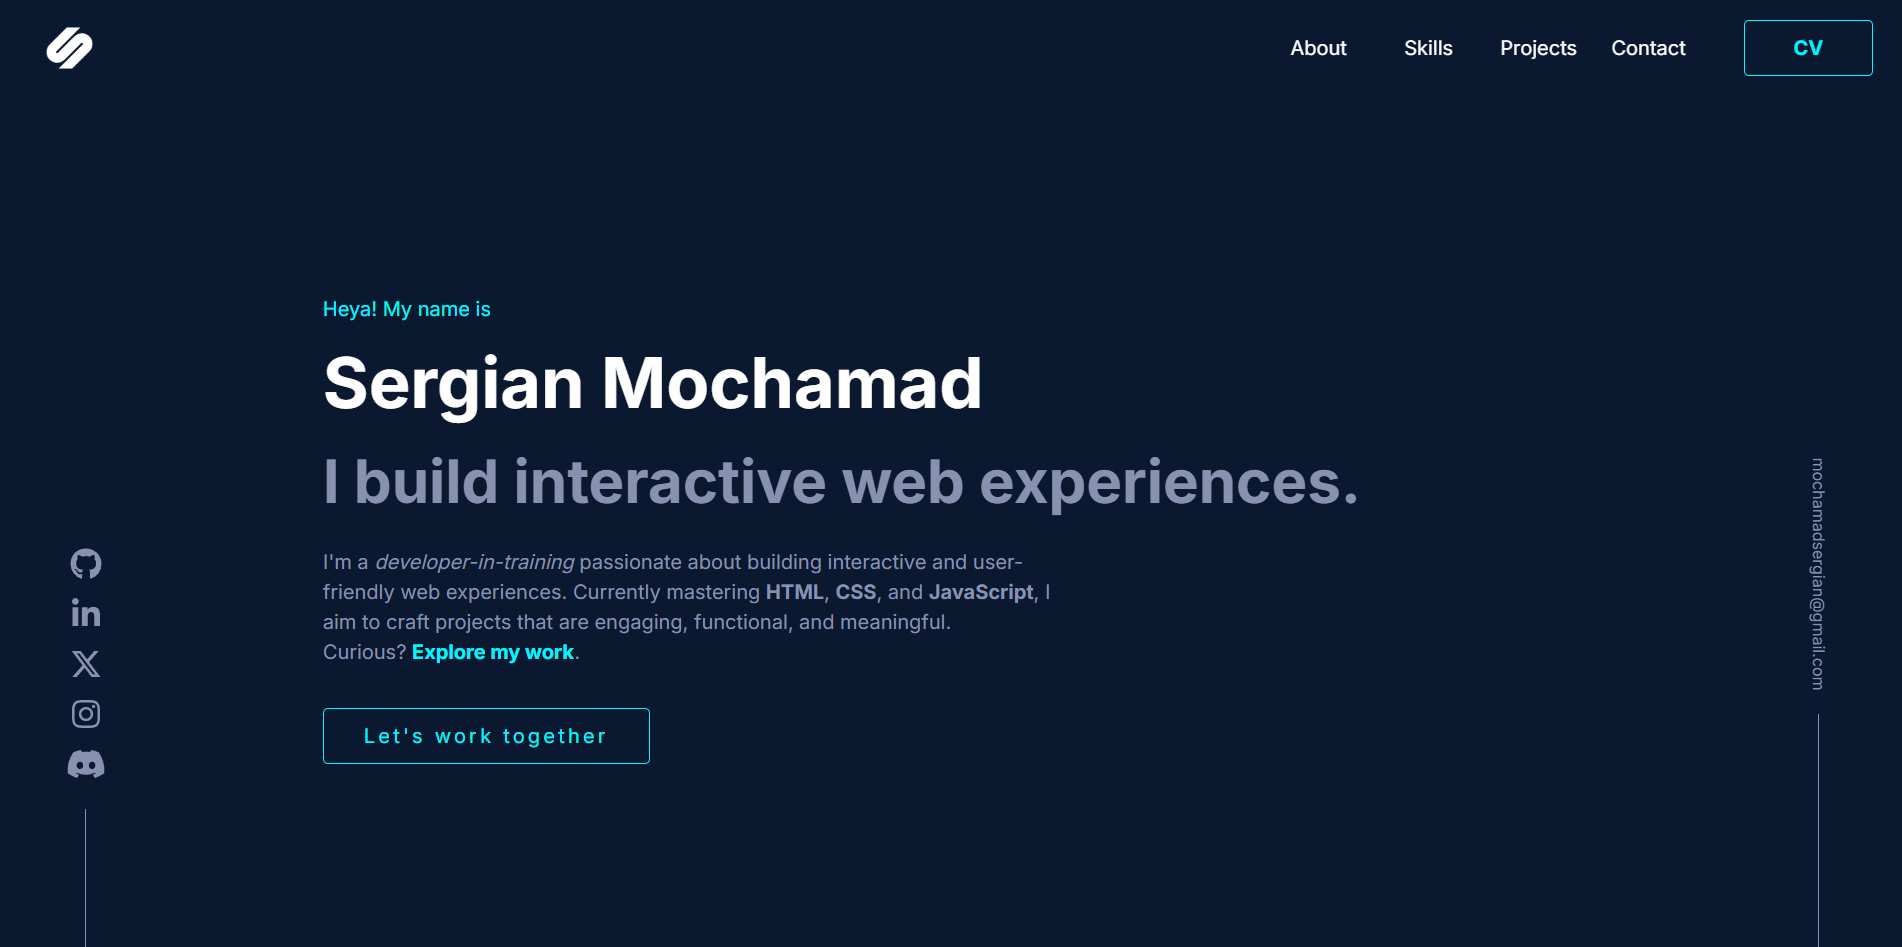
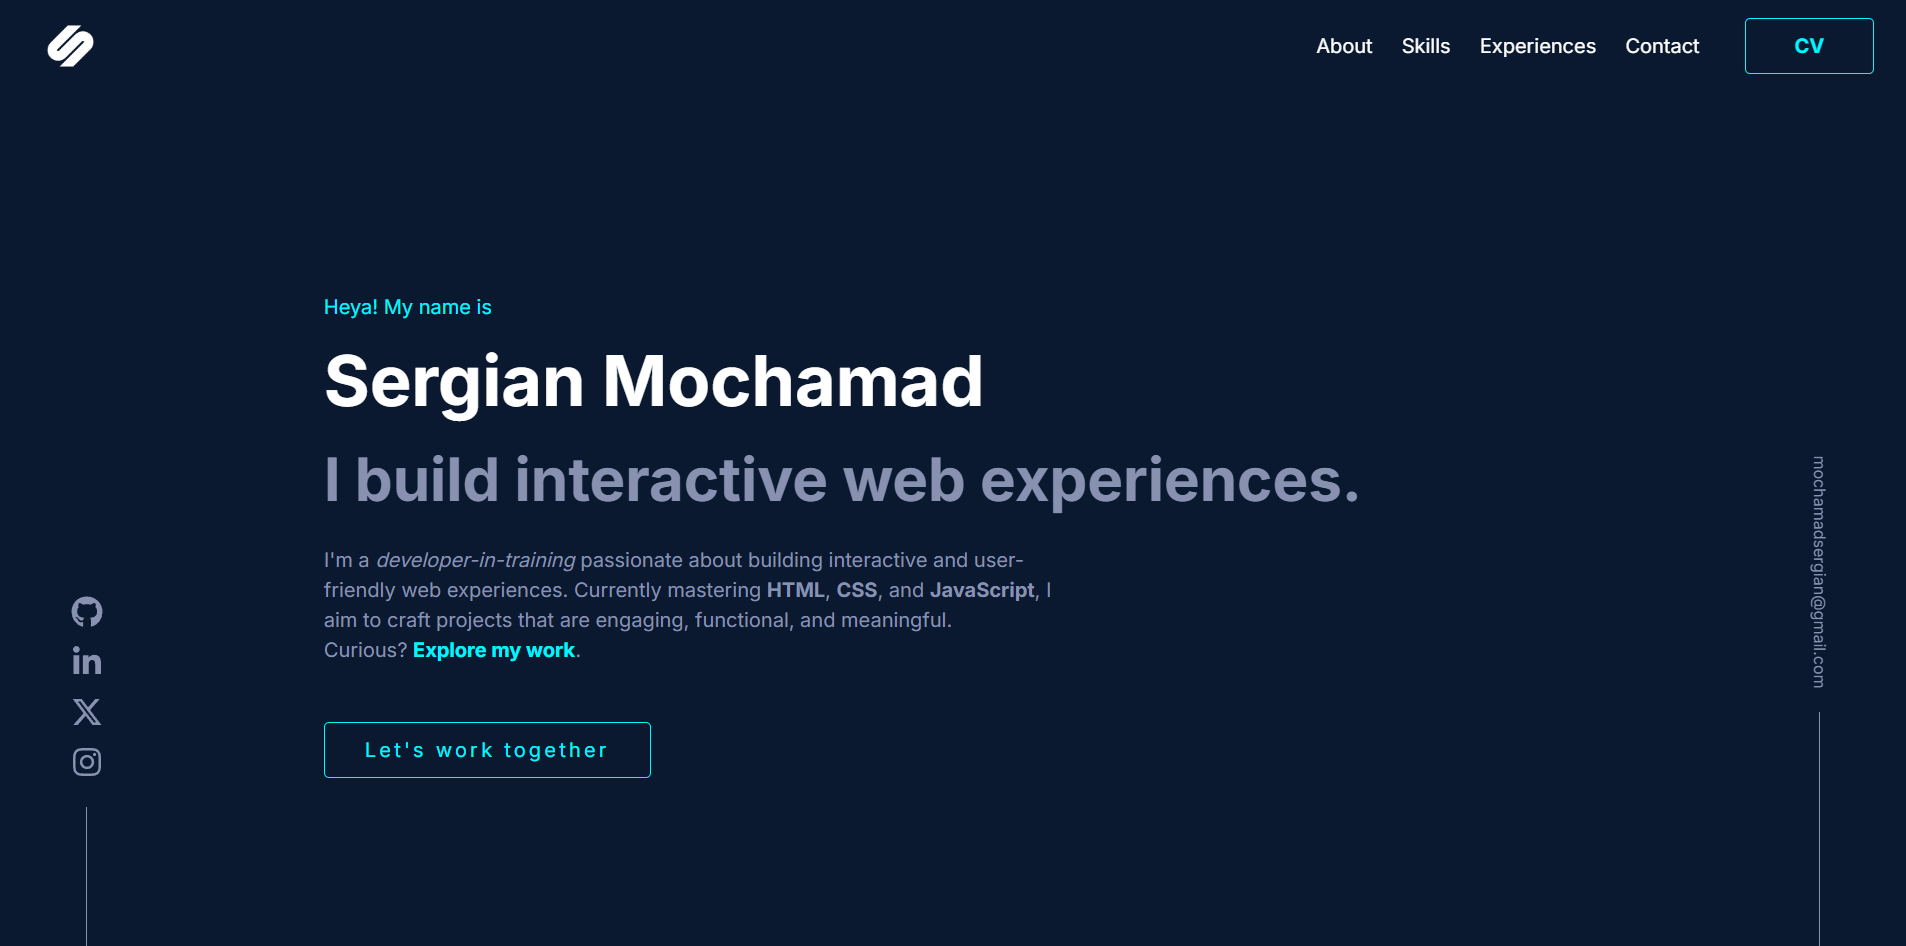
Footer & Contact

diff --git a/index.html b/index.html
@@ -129,7 +129,7 @@
                         <svg class="img-2" xmlns="http://www.w3.org/2000/svg" viewBox="0 0 640 640"><!--!Font Awesome Free v7.0.1 by @fontawesome - https://fontawesome.com License - https://fontawesome.com/license/free Copyright 2025 Fonticons, Inc.--><path d="M341.5 45.1C337.4 37.1 329.1 32 320.1 32C311.1 32 302.8 37.1 298.7 45.1L225.1 189.3L65.2 214.7C56.3 216.1 48.9 222.4 46.1 231C43.3 239.6 45.6 249 51.9 255.4L166.3 369.9L141.1 529.8C139.7 538.7 143.4 547.7 150.7 553C158 558.3 167.6 559.1 175.7 555L320.1 481.6L464.4 555C472.4 559.1 482.1 558.3 489.4 553C496.7 547.7 500.4 538.8 499 529.8L473.7 369.9L588.1 255.4C594.5 249 596.7 239.6 593.9 231C591.1 222.4 583.8 216.1 574.8 214.7L415 189.3L341.5 45.1z"/></svg>
                     </label>
                   </div>
-                <p class="captions">Lorem ipsum dolor sit amet, consectetur adipisicing elit. Fugiat suscipit maxime repellendus, adipisci doloremque accusamus dolorum animi? Voluptate voluptatibus voluptatum maiores repellendus nisi inventore eaque eius iure corporis quasi. In!</p>
+                <p class="captions">My first complete website project! I created it to expand my skills in HTML, CSS, and JavaScript while connecting with others for potential collaborations.</p>
                 <a href="#" class="project-link">View Project</a>
               </div>
             </div>
@@ -155,24 +155,52 @@
 
         <!-- Contacts Section -->
         <section class="sect" id="contact">
-            <h2 class="title">About Me</h2>
-            <p class="hero-intro">Contact</p>
-            <h1 class="hero-name">Sergian Mochamad</h1>
-            <h2 class="hero-subtitle">I bring life into technology</h2>
-            <p class="hero-description">
-                I'm a <i>developer-in-training</i> passionate about building interactive and user-friendly web
-                experiences.
-                Currently mastering <b>HTML</b>, <b>CSS</b>, and <b>JavaScript</b>, I aim to craft projects that are
-                engaging, functional, and meaningful.
-                <br>
-                Curious? <a href="#"><b>Explore my work</b></a>.
-            </p>
-            <a href="#" id="CTA-Btn">View my works</a>
+            <h2 class="title">Get in Touch</h2>
+
+           <div class="about">
+                <div class="about-left">
+                    <p class="about-intro">
+                        I'm currently looking for opportunities to collaborate on exciting projects and contribute to innovative teams. Whether you have a question, a project idea, or just want to say hello, feel free to reach out. I'm always open to connecting with like-minded individuals and exploring new possibilities.
+                    </p>
+
+                    <h3>Let's connect!</h3>
+
+                    <div class="content-socials">
+                        <a href="https://github.com/smymrr" target="_blank" rel="noopener noreferrer" class="socials">
+                            <svg xmlns="http://www.w3.org/2000/svg" viewBox="0 0 640 640"><path d="M237.9 461.4C237.9 463.4 235.6 465 232.7 465C229.4 465.3 227.1 463.7 227.1 461.4C227.1 459.4 229.4 457.8 232.3 457.8C235.3 457.5 237.9 459.1 237.9 461.4zM206.8 456.9C206.1 458.9 208.1 461.2 211.1 461.8C213.7 462.8 216.7 461.8 217.3 459.8C217.9 457.8 216 455.5 213 454.6C210.4 453.9 207.5 454.9 206.8 456.9zM251 455.2C248.1 455.9 246.1 457.8 246.4 460.1C246.7 462.1 249.3 463.4 252.3 462.7C255.2 462 257.2 460.1 256.9 458.1C256.6 456.2 253.9 454.9 251 455.2zM316.8 72C178.1 72 72 177.3 72 316C72 426.9 141.8 521.8 241.5 555.2C254.3 557.5 258.8 549.6 258.8 543.1C258.8 536.9 258.5 502.7 258.5 481.7C258.5 481.7 188.5 496.7 173.8 451.9C173.8 451.9 162.4 422.8 146 415.3C146 415.3 123.1 399.6 147.6 399.9C147.6 399.9 172.5 401.9 186.2 425.7C208.1 464.3 244.8 453.2 259.1 446.6C261.4 430.6 267.9 419.5 275.1 412.9C219.2 406.7 162.8 398.6 162.8 302.4C162.8 274.9 170.4 261.1 186.4 243.5C183.8 237 175.3 210.2 189 175.6C209.9 169.1 258 202.6 258 202.6C278 197 299.5 194.1 320.8 194.1C342.1 194.1 363.6 197 383.6 202.6C383.6 202.6 431.7 169 452.6 175.6C466.3 210.3 457.8 237 455.2 243.5C471.2 261.2 481 275 481 302.4C481 398.9 422.1 406.6 366.2 412.9C375.4 420.8 383.2 435.8 383.2 459.3C383.2 493 382.9 534.7 382.9 542.9C382.9 549.4 387.5 557.3 400.2 555C500.2 521.8 568 426.9 568 316C568 177.3 455.5 72 316.8 72zM169.2 416.9C167.9 417.9 168.2 420.2 169.9 422.1C171.5 423.7 173.8 424.4 175.1 423.1C176.4 422.1 176.1 419.8 174.4 417.9C172.8 416.3 170.5 415.6 169.2 416.9zM158.4 408.8C157.7 410.1 158.7 411.7 160.7 412.7C162.3 413.7 164.3 413.4 165 412C165.7 410.7 164.7 409.1 162.7 408.1C160.7 407.5 159.1 407.8 158.4 408.8zM190.8 444.4C189.2 445.7 189.8 448.7 192.1 450.6C194.4 452.9 197.3 453.2 198.6 451.6C199.9 450.3 199.3 447.3 197.3 445.4C195.1 443.1 192.1 442.8 190.8 444.4zM179.4 429.7C177.8 430.7 177.8 433.3 179.4 435.6C181 437.9 183.7 438.9 185 437.9C186.6 436.6 186.6 434 185 431.7C183.6 429.4 181 428.4 179.4 429.7z"/></svg>
+                        </a>
+
+                        <a href="https://www.linkedin.com/in/sergian-mochamad-17587a37a/" target="_blank" rel="noopener noreferrer" class="socials">
+                            <svg xmlns="http://www.w3.org/2000/svg" viewBox="0 0 640 640"><path d="M196.3 512L103.4 512L103.4 212.9L196.3 212.9L196.3 512zM149.8 172.1C120.1 172.1 96 147.5 96 117.8C96 103.5 101.7 89.9 111.8 79.8C121.9 69.7 135.6 64 149.8 64C164 64 177.7 69.7 187.8 79.8C197.9 89.9 203.6 103.6 203.6 117.8C203.6 147.5 179.5 172.1 149.8 172.1zM543.9 512L451.2 512L451.2 366.4C451.2 331.7 450.5 287.2 402.9 287.2C354.6 287.2 347.2 324.9 347.2 363.9L347.2 512L254.4 512L254.4 212.9L343.5 212.9L343.5 253.7L344.8 253.7C357.2 230.2 387.5 205.4 432.7 205.4C526.7 205.4 544 267.3 544 347.7L544 512L543.9 512z"/></svg>
+                        </a>
+
+                        <a href="https://x.com/Yurashmits" target="_blank" rel="noopener noreferrer" class="socials">
+                            <svg xmlns="http://www.w3.org/2000/svg" viewBox="0 0 640 640"><path d="M453.2 112L523.8 112L369.6 288.2L551 528L409 528L297.7 382.6L170.5 528L99.8 528L264.7 339.5L90.8 112L236.4 112L336.9 244.9L453.2 112zM428.4 485.8L467.5 485.8L215.1 152L173.1 152L428.4 485.8z"/></svg>
+                        </a>
+      
+                        <a href="https://www.instagram.com/smymr_/" target="_blank" rel="noopener noreferrer" class="socials">
+                            <svg xmlns="http://www.w3.org/2000/svg" viewBox="0 0 640 640"><path d="M320.3 205C256.8 204.8 205.2 256.2 205 319.7C204.8 383.2 256.2 434.8 319.7 435C383.2 435.2 434.8 383.8 435 320.3C435.2 256.8 383.8 205.2 320.3 205zM319.7 245.4C360.9 245.2 394.4 278.5 394.6 319.7C394.8 360.9 361.5 394.4 320.3 394.6C279.1 394.8 245.6 361.5 245.4 320.3C245.2 279.1 278.5 245.6 319.7 245.4zM413.1 200.3C413.1 185.5 425.1 173.5 439.9 173.5C454.7 173.5 466.7 185.5 466.7 200.3C466.7 215.1 454.7 227.1 439.9 227.1C425.1 227.1 413.1 215.1 413.1 200.3zM542.8 227.5C541.1 191.6 532.9 159.8 506.6 133.6C480.4 107.4 448.6 99.2 412.7 97.4C375.7 95.3 264.8 95.3 227.8 97.4C192 99.1 160.2 107.3 133.9 133.5C107.6 159.7 99.5 191.5 97.7 227.4C95.6 264.4 95.6 375.3 97.7 412.3C99.4 448.2 107.6 480 133.9 506.2C160.2 532.4 191.9 540.6 227.8 542.4C264.8 544.5 375.7 544.5 412.7 542.4C448.6 540.7 480.4 532.5 506.6 506.2C532.8 480 541 448.2 542.8 412.3C544.9 375.3 544.9 264.5 542.8 227.5zM495 452C487.2 471.6 472.1 486.7 452.4 494.6C422.9 506.3 352.9 503.6 320.3 503.6C287.7 503.6 217.6 506.2 188.2 494.6C168.6 486.8 153.5 471.7 145.6 452C133.9 422.5 136.6 352.5 136.6 319.9C136.6 287.3 134 217.2 145.6 187.8C153.4 168.2 168.5 153.1 188.2 145.2C217.7 133.5 287.7 136.2 320.3 136.2C352.9 136.2 423 133.6 452.4 145.2C472 153 487.1 168.1 495 187.8C506.7 217.3 504 287.3 504 319.9C504 352.5 506.7 422.6 495 452z"/></svg>
+                        </a>
+
+                        <a href="https://discord.gg/YG42792z" target="_blank" rel="noopener noreferrer" class="socials">
+                            <svg xmlns="http://www.w3.org/2000/svg" viewBox="0 0 640 640"><!--!Font Awesome Free v7.0.1 by @fontawesome - https://fontawesome.com License - https://fontawesome.com/license/free Copyright 2025 Fonticons, Inc.--><path d="M524.5 133.8C524.3 133.5 524.1 133.2 523.7 133.1C485.6 115.6 445.3 103.1 404 96C403.6 95.9 403.2 96 402.9 96.1C402.6 96.2 402.3 96.5 402.1 96.9C396.6 106.8 391.6 117.1 387.2 127.5C342.6 120.7 297.3 120.7 252.8 127.5C248.3 117 243.3 106.8 237.7 96.9C237.5 96.6 237.2 96.3 236.9 96.1C236.6 95.9 236.2 95.9 235.8 95.9C194.5 103 154.2 115.5 116.1 133C115.8 133.1 115.5 133.4 115.3 133.7C39.1 247.5 18.2 358.6 28.4 468.2C28.4 468.5 28.5 468.7 28.6 469C28.7 469.3 28.9 469.4 29.1 469.6C73.5 502.5 123.1 527.6 175.9 543.8C176.3 543.9 176.7 543.9 177 543.8C177.3 543.7 177.7 543.4 177.9 543.1C189.2 527.7 199.3 511.3 207.9 494.3C208 494.1 208.1 493.8 208.1 493.5C208.1 493.2 208.1 493 208 492.7C207.9 492.4 207.8 492.2 207.6 492.1C207.4 492 207.2 491.8 206.9 491.7C191.1 485.6 175.7 478.3 161 469.8C160.7 469.6 160.5 469.4 160.3 469.2C160.1 469 160 468.6 160 468.3C160 468 160 467.7 160.2 467.4C160.4 467.1 160.5 466.9 160.8 466.7C163.9 464.4 167 462 169.9 459.6C170.2 459.4 170.5 459.2 170.8 459.2C171.1 459.2 171.5 459.2 171.8 459.3C268 503.2 372.2 503.2 467.3 459.3C467.6 459.2 468 459.1 468.3 459.1C468.6 459.1 469 459.3 469.2 459.5C472.1 461.9 475.2 464.4 478.3 466.7C478.5 466.9 478.7 467.1 478.9 467.4C479.1 467.7 479.1 468 479.1 468.3C479.1 468.6 479 468.9 478.8 469.2C478.6 469.5 478.4 469.7 478.2 469.8C463.5 478.4 448.2 485.7 432.3 491.6C432.1 491.7 431.8 491.8 431.6 492C431.4 492.2 431.3 492.4 431.2 492.7C431.1 493 431.1 493.2 431.1 493.5C431.1 493.8 431.2 494 431.3 494.3C440.1 511.3 450.1 527.6 461.3 543.1C461.5 543.4 461.9 543.7 462.2 543.8C462.5 543.9 463 543.9 463.3 543.8C516.2 527.6 565.9 502.5 610.4 469.6C610.6 469.4 610.8 469.2 610.9 469C611 468.8 611.1 468.5 611.1 468.2C623.4 341.4 590.6 231.3 524.2 133.7zM222.5 401.5C193.5 401.5 169.7 374.9 169.7 342.3C169.7 309.7 193.1 283.1 222.5 283.1C252.2 283.1 275.8 309.9 275.3 342.3C275.3 375 251.9 401.5 222.5 401.5zM417.9 401.5C388.9 401.5 365.1 374.9 365.1 342.3C365.1 309.7 388.5 283.1 417.9 283.1C447.6 283.1 471.2 309.9 470.7 342.3C470.7 375 447.5 401.5 417.9 401.5z"/></svg>
+                        </a>
+                    </div>
+                </div>
+                
+                <div class="pfp">
+                    <img src="Assets/Images/random.jpg" alt="Sergian" class="pfp">
+                </div>
+            </div>
         </section>
     </main>
 
     <footer>
-        <p>Copyright (c) 2025 Sergian Mochamad (Yurashmits)</p>
+        <a href="https://github.com/smymrr/Portofolio" target="_blank" rel="noopener noreferrer">
+            Built by Sergian Mochamad
+        </a>
+        <br>
+        <a id="credit" href="https://brittanychiang.com" target="_blank" rel="noopener noreferrer">Layout & Reference from Brittany Chiang</a>
     </footer>
     <script src="Assets/Global/include.js"></script>
     <script src="Assets/Global/interactivity.js"></script>

diff --git a/styles.css b/styles.css
@@ -54,6 +54,37 @@ header {
   padding: 0 20px;
 }
 
+footer {
+  text-align: center;
+  padding: 20px;
+  font-size: 14px;
+  color: var(--suptext-clr);
+  transition: var(--transition);
+  cursor: pointer;
+}
+
+footer a {
+  text-decoration: none;
+  color: var(--suptext-clr);
+  transition: var(--transition);
+  cursor: pointer;
+
+  &:hover {
+    color: var(--accent-clr);
+  }
+}
+
+#credit {
+  text-decoration: none;
+  color: var(--suptext-clr);
+  transition: var(--transition);
+  cursor: pointer;
+
+  &:hover {
+    color: var(--accent-clr);
+  }
+}
+
 /*
 ========== NAVIGATION ==========
 */
@@ -79,15 +110,6 @@ header {
   top: 0;
   box-shadow: 0 0 6px 12px rgba(0, 0, 0, 0.1);
   backdrop-filter: blur(8px);
-}
-
-.navbar ul {
-  display: flex;
-  list-style: none;
-  margin: 0;
-  padding: 0;
-  height: 100%;
-  gap: 10px;
 }
 
 .navbar a {
@@ -262,6 +284,7 @@ main {
   max-width: 750px;
   color: var(--suptext-clr);
   line-height: 1.5;
+  transition: var(--transition);
 }
 
 .hero-description a {
@@ -315,6 +338,8 @@ main {
   width: 60vh;
   margin-right: 15%;
 }
+
+/* Education */
 
 .about-edu {
   display: flex;
@@ -475,10 +500,6 @@ main {
 ========== PROJECTS ==========
 */
 
-/*
-========== PROJECTS ==========
-*/
-
 .project-contents {
   display: flex;
   flex-direction: row;
@@ -504,6 +525,8 @@ main {
     border: 1px solid rgba(0, 247, 255, 0.336)  ;
   }
 }
+
+/* Details */
 
 .project-contents .right {
   display: flex;
@@ -569,16 +592,7 @@ main {
   }
 }
 
-.overlay {
-    position: absolute;
-    z-index: 1;
-    top: 0;
-    left: 0;
-    width: 100%;
-    height: 100%;
-    background-color: rgba(0, 0, 0, 0.4);
-    transition: var(--transition);
-}
+/* Toggle star animation */
 
 .title input[type="checkbox"] {
   display: none;
@@ -591,6 +605,108 @@ main {
 .title label input[type="checkbox"]:checked  ~ .img-2 {
   animation: starAnim 0.5s forwards;
   display: inline;
+}
+
+/*
+========== CONTACTS ==========
+*/
+
+.contact {
+  display: flex;
+  flex-direction: row;
+  gap: 15%;
+}
+
+.contact-left {
+  display: flex;
+  flex-direction: column;
+  width: 60vh;
+}
+
+.contact-intro {
+  width: 60vh;
+  margin-right: 15%;
+}
+
+/* Education */
+
+.contact-socials {
+  display: flex;
+  width: 50%;
+  justify-content: center;
+}
+
+.content-socials a {
+  text-decoration: none;
+}
+
+.content-socials .socials svg {
+  width: 40px;
+  fill: var(--suptext-clr);
+  background-color: transparent;
+  cursor: pointer;
+  transition: var(--transition);
+
+  &:hover {
+    transform: scale(1.1) translateY(-5px);
+    fill: var(--accent-clr);
+  }
+}
+
+.edu-item {
+  position: relative;
+  display: flex;
+  justify-content: center;
+}
+
+.pfp {
+  display: flex;
+  flex-direction: column;
+  align-items: center;
+  width: 50vh;
+  border-radius: 20px;
+  transition: var(--transition);
+}
+
+/* Tooltip */
+
+.GitHub-name {
+  color: var(--text-clr);
+  white-space: nowrap;
+  opacity: 0;
+  pointer-events: none;
+  transition: var(--transition);
+  letter-spacing: 0.2rem;
+}
+
+.school-name {
+  position: absolute;
+  color: var(--text-clr);
+  white-space: nowrap;
+  opacity: 0;
+  pointer-events: none;
+  margin: 100% auto;
+  transition: var(--transition);
+}
+
+.school-support {
+  position: absolute;
+  color: var(--suptext-clr);
+  white-space: nowrap;
+  opacity: 0;
+  pointer-events: none;
+  margin: calc(100% + 30px) auto;
+  transition: var(--transition);
+}
+
+.school-class {
+  position: absolute;
+  color: var(--suptext-clr);
+  white-space: nowrap;
+  opacity: 0;
+  pointer-events: none;
+  margin: calc(100% + 60px) auto;
+  transition: var(--transition);
 }
 
 /*
